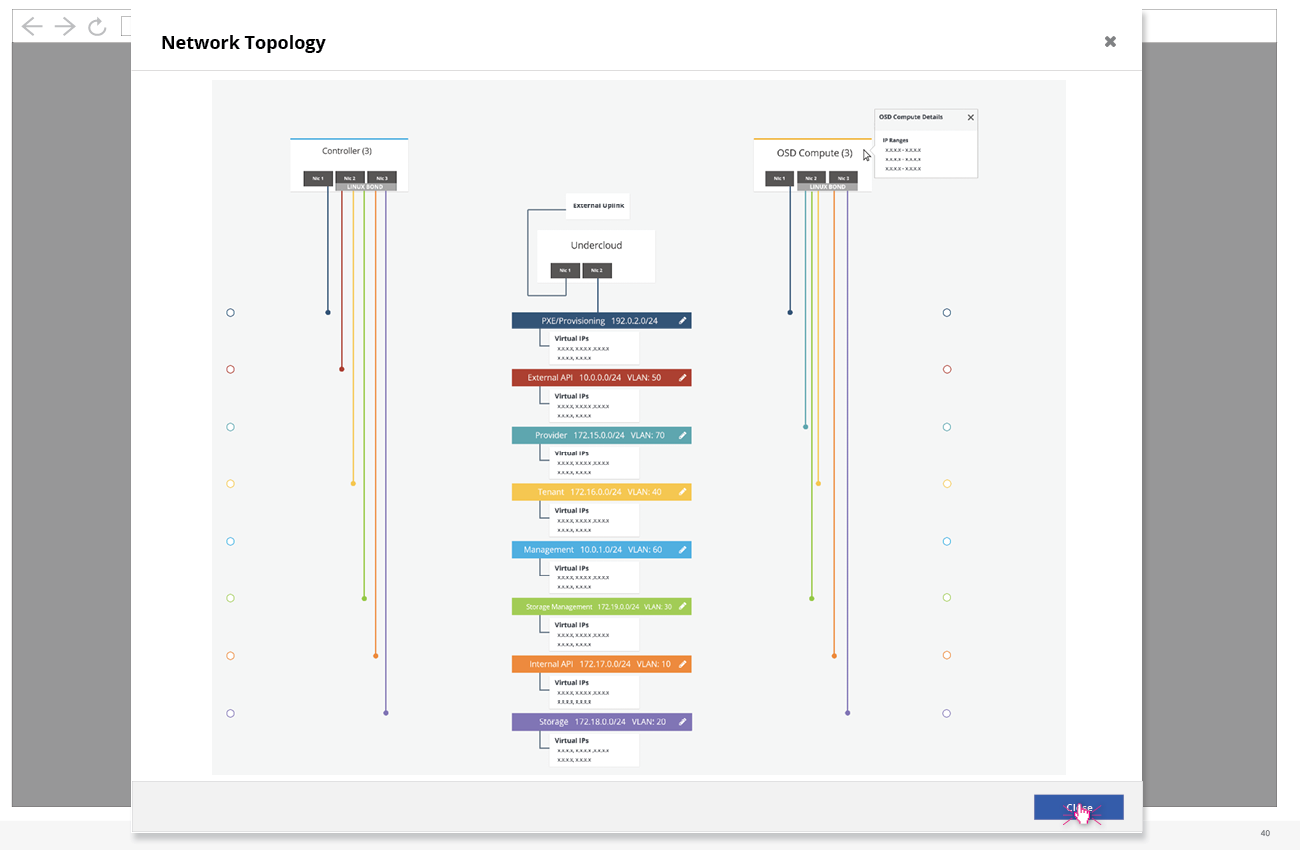
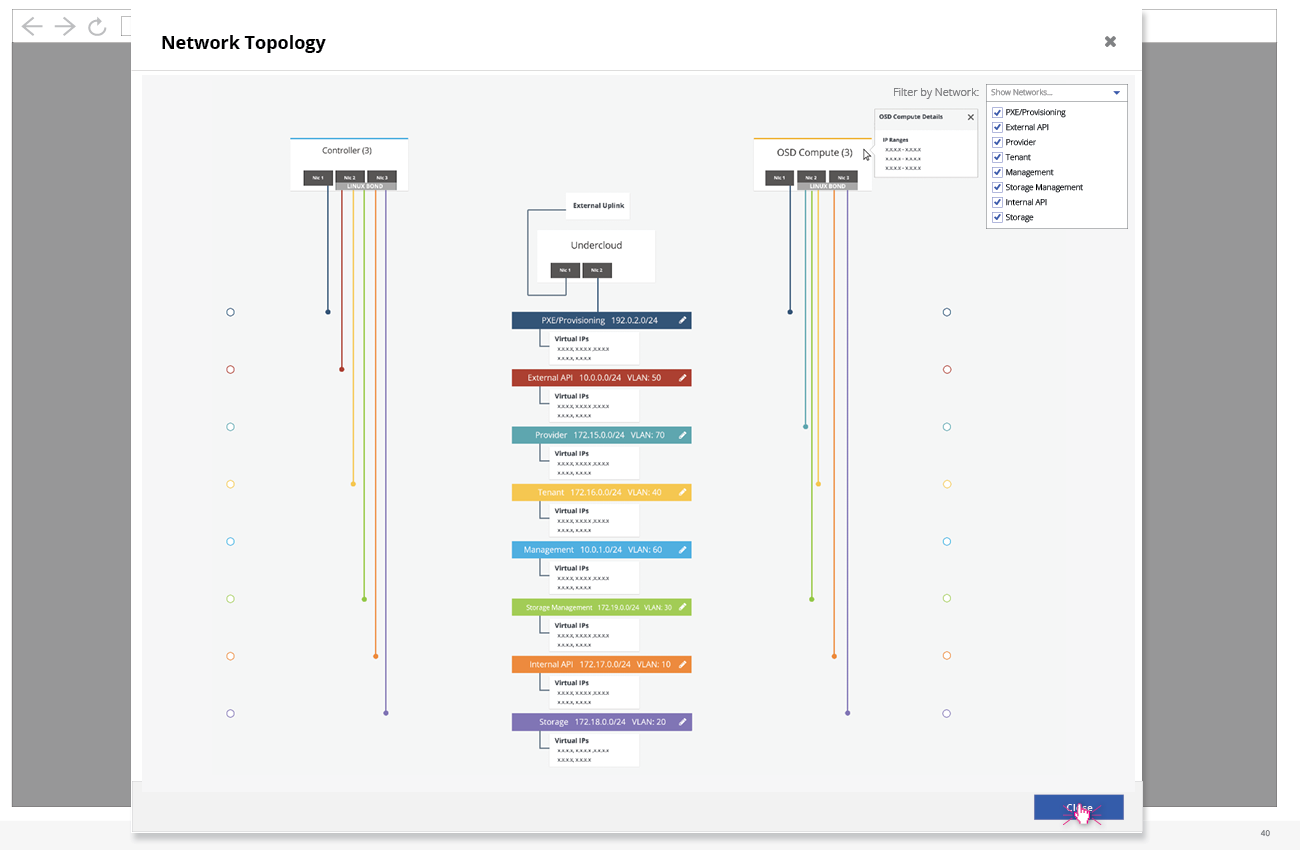
Adding a filter to the network topology
This would allow users to filter the networks being shown in this view.

Fixes #18

diff --git a/tripleo-ui/3-tripleo-ui-edge-cases/7.advancednetworkconfigurationandtopology.md b/tripleo-ui/3-tripleo-ui-edge-cases/7.advancednetworkconfigurationandtopology.md
@@ -41,9 +41,10 @@
 - At any point, the user can choose to check out the network topology to see how the overcloud network is configured.
 
 ![advancednetworkconfiguration10](img/2017-8-17-TripleO-UI_Edge-Cases40.png)
-- The network toplogy is a visual representation of the roles, their NIC configuration, along with which subnets each NIC is configured for.
+- The network topology is a visual representation of the roles, their NIC configuration, along with which subnets each NIC is configured for.
 - The user can see the high level subnet information as well.
 - If the user were to choose to edit this subnet information, they would be presented with a quick modal with a few parameters on top of this screen.
+- One additional feature in this modal is that the user can filter down the number of networks being shown to reduce the clutter in this view. The user can unselect any networks they want to hide from view.
 
 ## Specific Node Network Configuration
 ![nodenetworkconfiguration](img/2017-8-17-TripleO-UI_Edge-Cases41.png)
